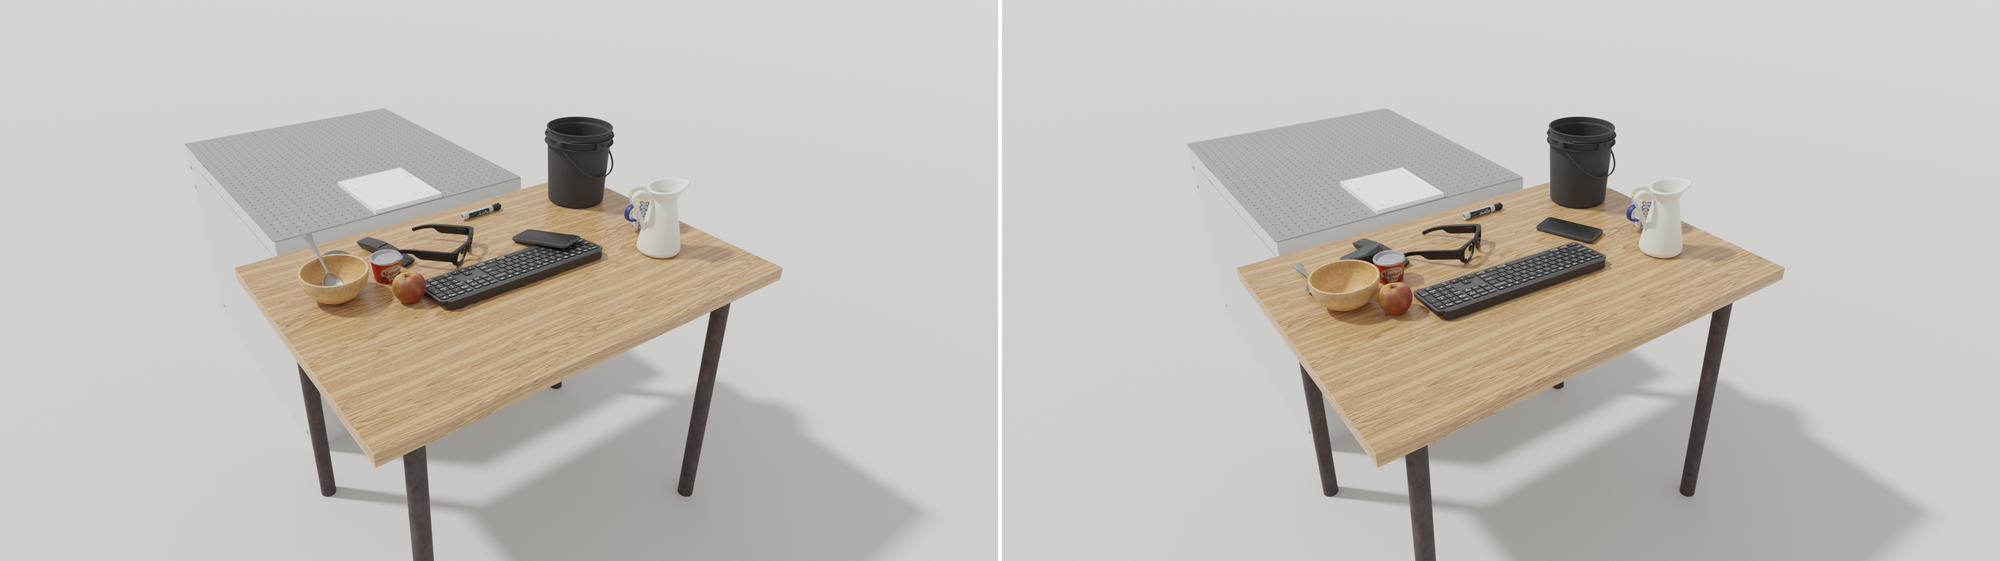
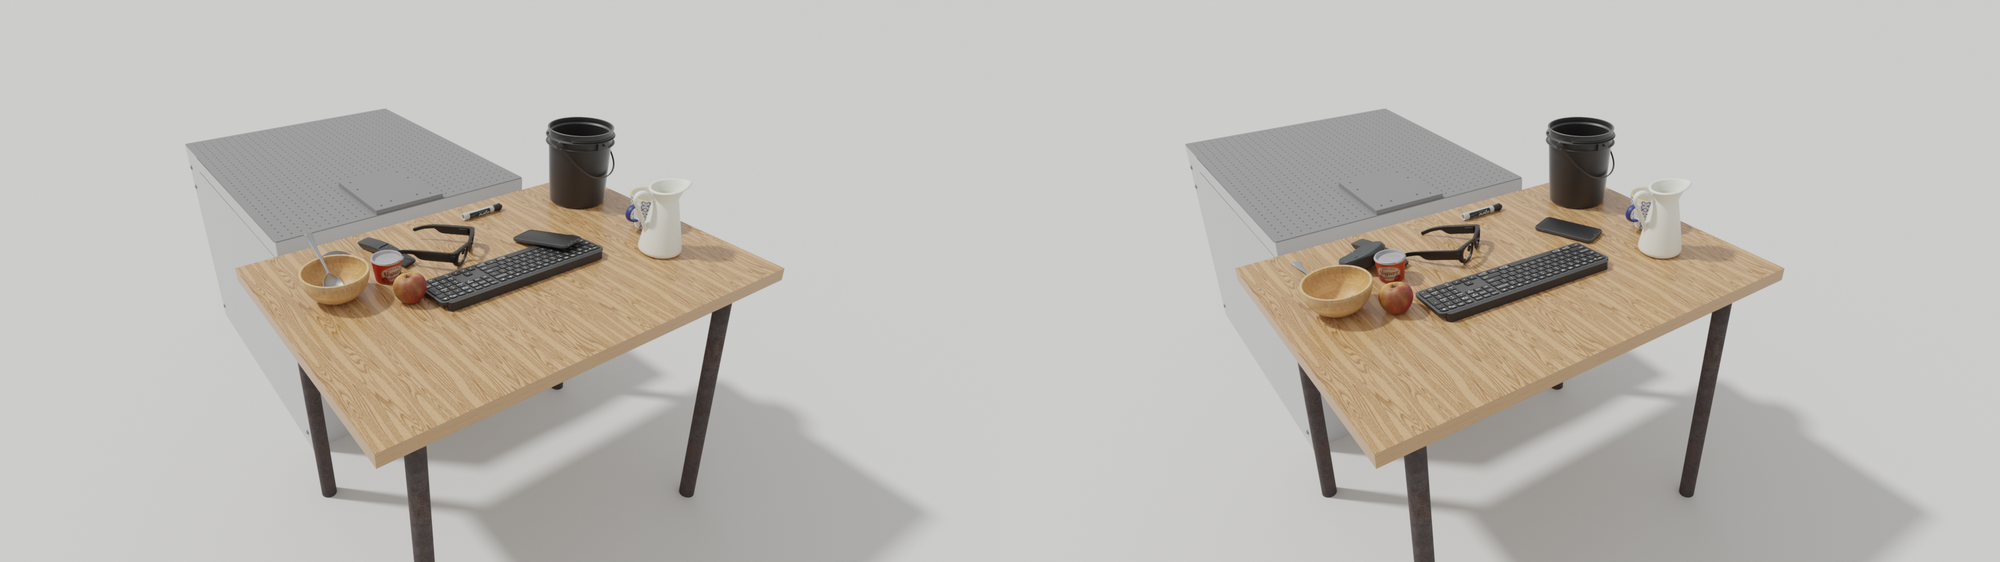
SimReady Gate: workdesk clips re-rendered

diff --git a/SimReady_Gate/viz/make_gif.py b/SimReady_Gate/viz/make_gif.py
@@ -60,7 +60,7 @@ def encode(paths, out, width, ms, spread=10.0, gate=3.0):
             seen = np.where(keep[..., None], seen, f)
             shown = np.where(keep, TRANSPARENT, idx).astype(np.uint8)
         prev = idx
-        im = Image.fromarray(shown, mode="P"); im.putpalette(pal_bytes)
+        im = Image.fromarray(shown); im.putpalette(pal_bytes)            # palette indices: an L image the palette makes P
         out_frames.append(im)
     out_frames[0].save(out, save_all=True, append_images=out_frames[1:], duration=ms, loop=0, transparency=TRANSPARENT,
                        disposal=1, optimize=False)

diff --git a/SimReady_Gate/README.md b/SimReady_Gate/README.md
@@ -142,7 +142,7 @@ supports. SimReady Gate is the layer between a scene generator and the simulator
 settle and still carries three object-object interpenetrations, the largest scoring 9.9 mm (keyboard and
 smartphone). Below it goes through the gate with one sentence of intent.
 
-![raw layout (penetrating bodies tinted), scale continuation at s = 0.22 and s = 0.57, repaired](docs/media/workdesk_strip.png)
+![raw layout (penetrating bodies tinted), scale continuation at s = 0.05 and s = 0.69, repaired](docs/media/workdesk_strip.png)
 
 *Left to right: the scene as shipped with the interpenetrating bodies tinted; S4R shrinking every
 free body about its reference center and growing it back while the QP moves bodies in the plane;
